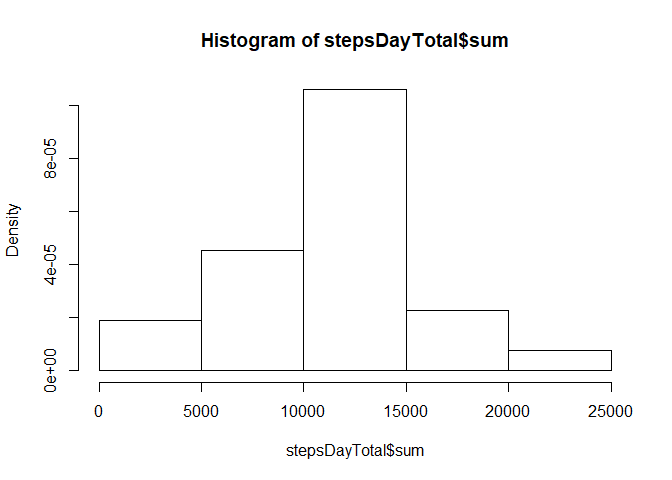
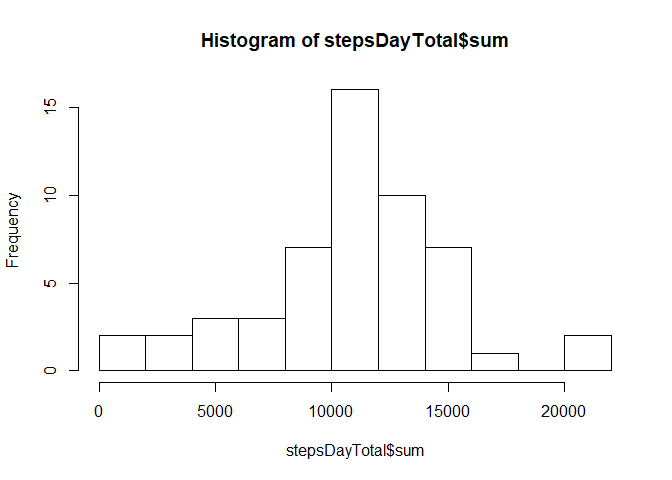
updating

diff --git a/PA1_template.html b/PA1_template.html
@@ -124,32 +124,56 @@ $(document).ready(function () {
 
 <div id="loading-and-preprocessing-the-data" class="section level2">
 <h2>Loading and preprocessing the data</h2>
-<pre><code>## 
-## Attaching package: 'dplyr'</code></pre>
-<pre><code>## The following objects are masked from 'package:stats':
-## 
-##     filter, lag</code></pre>
-<pre><code>## The following objects are masked from 'package:base':
-## 
-##     intersect, setdiff, setequal, union</code></pre>
+<pre class="r"><code>library(dplyr)
+options(dplyr.print_max = 100)
+dataset &lt;- read.csv(unz(&quot;activity.zip&quot;,&quot;activity.csv&quot;))
+#dataset$date &lt;- as.Date(dataset$date, &quot;%Y%m%d&quot;)</code></pre>
 </div>
 <div id="what-is-mean-total-number-of-steps-taken-per-day" class="section level2">
 <h2>What is mean total number of steps taken per day?</h2>
-<pre class="r"><code>stepsDayTotal &lt;- group_by(dataset, date = as.factor(as.numeric(date))) %&gt;% summarise( sum = sum(steps), mean = mean(steps, na.rm = TRUE), median = median(steps))
+<pre class="r"><code>stepsDayTotal &lt;- group_by(dataset, date) %&gt;% summarise( sum = sum(steps))
 
-#hist(stepsDayTotal$sum)
-
-print(stepsDayTotal)</code></pre>
-<pre><code>## # A tibble: 1 x 4
-##     date   sum    mean median
-##   &lt;fctr&gt; &lt;int&gt;   &lt;dbl&gt;  &lt;int&gt;
-## 1   &lt;NA&gt;    NA 37.3826     NA</code></pre>
+hist(stepsDayTotal$sum, breaks = 10)</code></pre>
[1 lines of base64/hex data omitted]
+<pre class="r"><code>mean(stepsDayTotal$sum, na.rm = TRUE)</code></pre>
+<pre><code>## [1] 10766.19</code></pre>
+<pre class="r"><code>median(stepsDayTotal$sum, na.rm = TRUE)</code></pre>
+<pre><code>## [1] 10765</code></pre>
 </div>
 <div id="what-is-the-average-daily-activity-pattern" class="section level2">
 <h2>What is the average daily activity pattern?</h2>
+<pre class="r"><code>stepsByinterval &lt;- group_by(dataset, as.factor(interval)) %&gt;% summarise(sum(steps, na.rm = TRUE), mean = mean(steps, na.rm = TRUE))
+names(stepsByinterval) &lt;- c(&quot;interval&quot;,&quot;sum&quot;,&quot;mean&quot;)
+
+plot(stepsByinterval$sum ~ stepsByinterval$interval)
+lines(stepsByinterval$sum ~ stepsByinterval$interval, type = &quot;l&quot;)</code></pre>
[1 lines of base64/hex data omitted]
+<pre class="r"><code>stepsByinterval[which.max(stepsByinterval$sum),]</code></pre>
+<pre><code>## # A tibble: 1 x 3
+##   interval   sum     mean
+##     &lt;fctr&gt; &lt;int&gt;    &lt;dbl&gt;
+## 1      835 10927 206.1698</code></pre>
 </div>
 <div id="imputing-missing-values" class="section level2">
 <h2>Imputing missing values</h2>
+<p>A sum is made of all missing values then dataset and stepsByinterval tables are merged. This is for the purpose of replacing all the NA in the steps collum with the interval mean.</p>
+<pre class="r"><code>sum(is.na(dataset$steps))</code></pre>
+<pre><code>## [1] 2304</code></pre>
+<pre class="r"><code>mrg &lt;- merge(dataset, stepsByinterval, by.x = &quot;interval&quot;, by.y = &quot;interval&quot;)
+
+for (i in seq_along(mrg$steps)){
+  if (is.na(mrg$steps[i]) == TRUE){mrg$steps[i] &lt;- mrg$mean[i]}
+}
+
+newsummary &lt;- group_by(mrg, date) %&gt;% summarise( sum = sum(steps))
+
+hist(newsummary$sum, breaks = 10)</code></pre>
[1 lines of base64/hex data omitted]
+<pre class="r"><code>mean(newsummary$sum, na.rm = TRUE)</code></pre>
+<pre><code>## [1] 10766.19</code></pre>
+<pre class="r"><code>median(newsummary$sum, na.rm = TRUE)</code></pre>
+<pre><code>## [1] 10766.19</code></pre>
+<p>The methods of filling in the NA’s has caused the mean and median to be the same value.</p>
 </div>
 <div id="are-there-differences-in-activity-patterns-between-weekdays-and-weekends" class="section level2">
 <h2>Are there differences in activity patterns between weekdays and weekends?</h2>

diff --git a/PA1_template.md b/PA1_template.md
@@ -9,47 +9,108 @@ output:
 ## Loading and preprocessing the data
 
 
-```
-## 
-## Attaching package: 'dplyr'
-```
-
-```
-## The following objects are masked from 'package:stats':
-## 
-##     filter, lag
-```
-
-```
-## The following objects are masked from 'package:base':
-## 
-##     intersect, setdiff, setequal, union
+```r
+library(dplyr)
+options(dplyr.print_max = 100)
+dataset <- read.csv(unz("activity.zip","activity.csv"))
+#dataset$date <- as.Date(dataset$date, "%Y%m%d")
 ```
 
 ## What is mean total number of steps taken per day?
 
 ```r
-stepsDayTotal <- group_by(dataset, date = as.factor(as.numeric(date))) %>% summarise( sum = sum(steps), mean = mean(steps, na.rm = TRUE), median = median(steps))
+stepsDayTotal <- group_by(dataset, date) %>% summarise( sum = sum(steps))
 
-#hist(stepsDayTotal$sum)
+hist(stepsDayTotal$sum, breaks = 10)
+```
 
-print(stepsDayTotal)
+![](PA1_template_files/figure-html/unnamed-chunk-1-1.png)<!-- -->
+
+```r
+mean(stepsDayTotal$sum, na.rm = TRUE)
 ```
 
 ```
-## # A tibble: 1 x 4
-##     date   sum    mean median
-##   <fctr> <int>   <dbl>  <int>
-## 1   <NA>    NA 37.3826     NA
+## [1] 10766.19
+```
+
+```r
+median(stepsDayTotal$sum, na.rm = TRUE)
+```
+
+```
+## [1] 10765
 ```
 
 
 ## What is the average daily activity pattern?
 
 
+```r
+stepsByinterval <- group_by(dataset, as.factor(interval)) %>% summarise(sum(steps, na.rm = TRUE), mean = mean(steps, na.rm = TRUE))
+names(stepsByinterval) <- c("interval","sum","mean")
+
+plot(stepsByinterval$sum ~ stepsByinterval$interval)
+lines(stepsByinterval$sum ~ stepsByinterval$interval, type = "l")
+```
+
+![](PA1_template_files/figure-html/unnamed-chunk-2-1.png)<!-- -->
+
+```r
+stepsByinterval[which.max(stepsByinterval$sum),]
+```
+
+```
+## # A tibble: 1 x 3
+##   interval   sum     mean
+##     <fctr> <int>    <dbl>
+## 1      835 10927 206.1698
+```
+
 
 ## Imputing missing values
+A sum is made of all missing values then dataset and stepsByinterval tables are merged. This is for the purpose of replacing all the NA in the steps collum with the interval mean.
 
 
+
+```r
+sum(is.na(dataset$steps))
+```
+
+```
+## [1] 2304
+```
+
+```r
+mrg <- merge(dataset, stepsByinterval, by.x = "interval", by.y = "interval")
+
+for (i in seq_along(mrg$steps)){
+  if (is.na(mrg$steps[i]) == TRUE){mrg$steps[i] <- mrg$mean[i]}
+}
+
+newsummary <- group_by(mrg, date) %>% summarise( sum = sum(steps))
+
+hist(newsummary$sum, breaks = 10)
+```
+
+![](PA1_template_files/figure-html/unnamed-chunk-3-1.png)<!-- -->
+
+```r
+mean(newsummary$sum, na.rm = TRUE)
+```
+
+```
+## [1] 10766.19
+```
+
+```r
+median(newsummary$sum, na.rm = TRUE)
+```
+
+```
+## [1] 10766.19
+```
+The methods of filling in the NA's has caused the mean and median to be the same value.
 
 ## Are there differences in activity patterns between weekdays and weekends?
+
